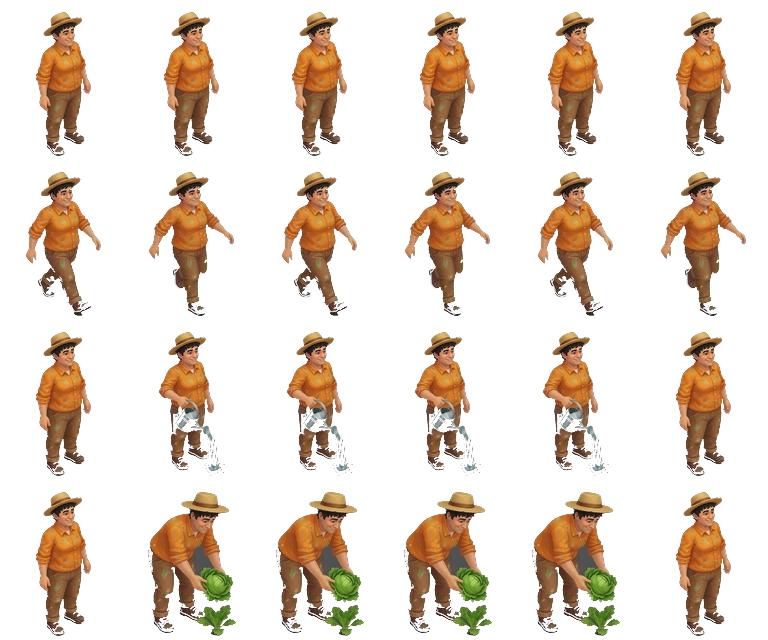
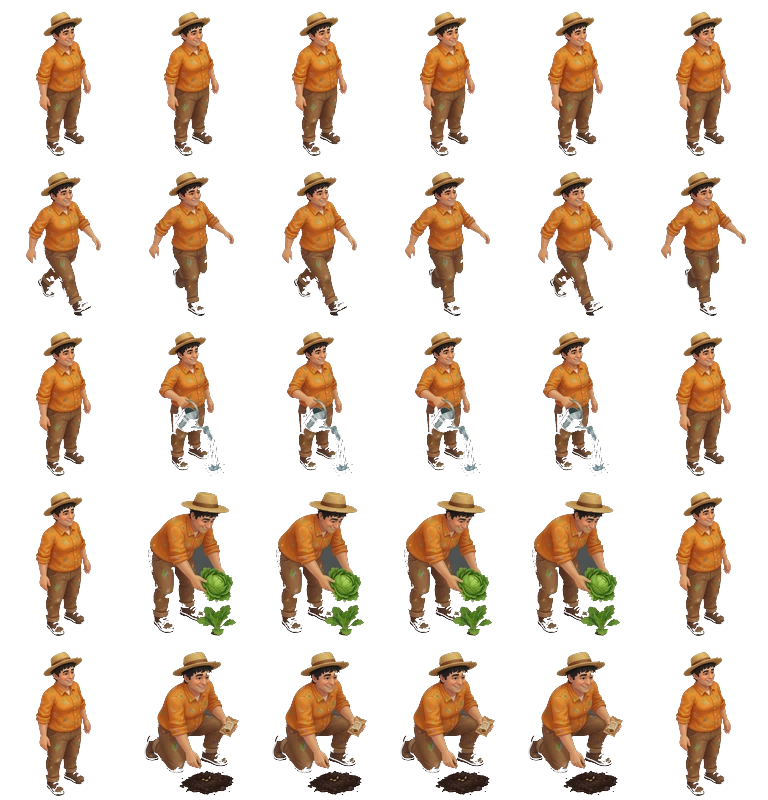
种菜也等人走到并做完下种动作

diff --git a/src/js/farmer.js b/src/js/farmer.js
@@ -14,8 +14,8 @@
     { id: 8, zh: '奶奶', en: 'Grandmother', child: false, shirt: '#d8c4a0', pants: '#6a5a48' },
     { id: 9, zh: '店员', en: 'Shop apron', child: false, shirt: '#2f7343', pants: '#3d4a6a' },
   ];
-  const SHEET_COLS = 6, SHEET_ROWS = 4;
-  const ANIMS = { idle: 0, walk: 1, water: 2, harvest: 3 };
+  const SHEET_COLS = 6, SHEET_ROWS = 5;
+  const ANIMS = { idle: 0, walk: 1, water: 2, harvest: 3, plant: 4 };
   const FPS = 8;
   const WALK_SPEED = 2.2;     // cells / second
   const IDLE_PAUSE = [2, 4];
@@ -84,14 +84,17 @@
     if (Farm.isoView && Farm.isoView.render) Farm.isoView.render();
   }
 
-  function enqueue(plotIdx, kind) {
-    if (!kind || (kind !== 'harvest' && kind !== 'water')) return false;
+  function enqueue(plotIdx, kind, cropId) {
+    if (!kind || (kind !== 'harvest' && kind !== 'water' && kind !== 'plant')) return false;
     if (Farm.state && Farm.state._visitLock) return false;
     const iso = Farm.isoView;
     if (!iso || plotIdx == null) return false;
     const plots = (Farm.state.data && Farm.state.data.plots) || [];
     const plot = plots[plotIdx];
-    if (!plot || !plot.unlocked || !plot.crop) return false;
+    if (!plot || !plot.unlocked) return false;
+    if (kind === 'plant') {
+      if (plot.crop || !cropId) return false;
+    } else if (!plot.crop) return false;
     if (kind === 'harvest' && !(Farm.crops && Farm.crops.isMature && Farm.crops.isMature(plot))) return false;
     if (kind === 'water' && Farm.tending && Farm.tending.canWater && !Farm.tending.canWater(plot)) return false;
     const cap = plots.filter((p) => p && p.unlocked).length || 12;
@@ -100,7 +103,7 @@
     for (let i = 0; i < A.queue.length; i++) {
       if (A.queue[i].plotIdx === plotIdx && A.queue[i].kind === kind) return false;
     }
-    A.queue.push({ plotIdx: plotIdx, kind: kind });
+    A.queue.push({ plotIdx: plotIdx, kind: kind, cropId: cropId || null });
     A.pause = 0;
     return true;
   }
@@ -236,6 +239,42 @@
     return n > 0;
   }
 
+  function enqueuePlantAll(cropId, startIdx) {
+    const iso = Farm.isoView;
+    if (!iso || !cropId || (Farm.state && Farm.state._visitLock)) return false;
+    const plots = (Farm.state.data && Farm.state.data.plots) || [];
+    const empty = [];
+    for (let i = 0; i < plots.length; i++) {
+      if (plots[i] && plots[i].unlocked && !plots[i].crop) empty.push(i);
+    }
+    if (!empty.length) return false;
+    const dist = (a, b) => {
+      const dx = iso._plotGX(a) - iso._plotGX(b);
+      const dy = iso._plotGY(a) - iso._plotGY(b);
+      return dx * dx + dy * dy;
+    };
+    const left = empty.slice();
+    const order = [];
+    let cur = (startIdx != null && left.indexOf(startIdx) >= 0) ? startIdx : left[0];
+    while (left.length) {
+      const at = left.indexOf(cur);
+      if (at >= 0) left.splice(at, 1);
+      order.push(cur);
+      if (!left.length) break;
+      let best = left[0], bd = Infinity;
+      for (let k = 0; k < left.length; k++) {
+        const d = dist(cur, left[k]);
+        if (d < bd) { bd = d; best = left[k]; }
+      }
+      cur = best;
+    }
+    let n = 0;
+    for (let i = 0; i < order.length; i++) {
+      if (enqueue(order[i], 'plant', cropId)) n++;
+    }
+    return n > 0;
+  }
+
   function finishJob(iso) {
     const job = A.job;
     A.job = null;
@@ -254,13 +293,31 @@
       }
     } else if (job.kind === 'water') {
       if (Farm.tending && Farm.tending.waterPlot) Farm.tending.waterPlot(job.plotIdx);
+    } else if (job.kind === 'plant' && job.cropId && Farm.shop && Farm.shop._plantOne) {
+      if ((Farm.state.data.seeds[job.cropId] || 0) <= 0) {
+        if (!(Farm.shop._buyOneForPlanting && Farm.shop._buyOneForPlanting(job.cropId))) {
+          A.queue = A.queue.filter((j) => !(j.kind === 'plant' && j.cropId === job.cropId));
+          if (Farm.ui && Farm.ui.toast) Farm.ui.toast(Farm.i18n ? Farm.i18n.t('toast_not_enough_coins') : '农场币不足');
+          return;
+        }
+      }
+      const r = Farm.shop._plantOne(job.plotIdx, job.cropId);
+      if (r && r.ok) {
+        if (Farm.farm && Farm.farm.renderGrid) Farm.farm.renderGrid();
+        if (Farm.harvestStatus) Farm.harvestStatus.render();
+        if (Farm.audio) Farm.audio.play('plant');
+        if (Farm.ui && Farm.ui.refreshHUD) Farm.ui.refreshHUD();
+      }
     }
   }
 
   function startJob(iso, job) {
     const plots = (Farm.state.data && Farm.state.data.plots) || [];
     const plot = plots[job.plotIdx];
-    if (!plot || !plot.crop) return false;
+    if (!plot) return false;
+    if (job.kind === 'plant') {
+      if (plot.crop || !job.cropId) return false;
+    } else if (!plot.crop) return false;
     if (job.kind === 'harvest' && !(Farm.crops && Farm.crops.isMature && Farm.crops.isMature(plot))) return false;
     if (job.kind === 'water' && Farm.tending && Farm.tending.canWater && !Farm.tending.canWater(plot)) return false;
     A.job = job;
@@ -317,7 +374,7 @@
       while (A.queue.length && !startJob(iso, A.queue.shift())) { /* skip stale */ }
     }
 
-    if (A.job && (A.job.kind === 'harvest' || A.job.kind === 'water')) {
+    if (A.job && (A.job.kind === 'harvest' || A.job.kind === 'water' || A.job.kind === 'plant')) {
       const p = plotPos(iso, A.job.plotIdx);
       if (A.anim === 'walk') {
         if (moveToward(dt, p.gx, p.gy)) {
@@ -326,7 +383,7 @@
           A.anim = A.job.kind;
           A.frameT = 0;
         }
-      } else if (A.anim === 'harvest' || A.anim === 'water') {
+      } else if (A.anim === 'harvest' || A.anim === 'water' || A.anim === 'plant') {
         if (A.frameT >= SHEET_COLS / FPS) finishJob(iso);
       }
       return;
@@ -354,7 +411,7 @@
 
   function frameIndex() {
     const n = SHEET_COLS;
-    if (A.anim === 'harvest' || A.anim === 'water') {
+    if (A.anim === 'harvest' || A.anim === 'water' || A.anim === 'plant') {
       return Math.min(n - 1, Math.floor(A.frameT * FPS));
     }
     return Math.floor(A.frameT * FPS) % n;
@@ -456,6 +513,7 @@
     enqueue: enqueue,
     enqueueHarvestAll: enqueueHarvestAll,
     enqueueWaterAll: enqueueWaterAll,
+    enqueuePlantAll: enqueuePlantAll,
     tick: tick,
     depthDraw: depthDraw,
     drawGuest: drawGuest,

diff --git a/src/js/shop.js b/src/js/shop.js
@@ -306,6 +306,12 @@
         const p = Farm.state.data.plots[pending];
         if (p && p.unlocked && !p.crop) {
           this._pendingPlotIdx = null;
+          if (Farm.isoView && Farm.isoView.active && Farm.isoView.active()
+              && Farm.farmer && Farm.farmer.enqueue && Farm.farmer.enqueue(pending, 'plant', cropId)) {
+            Farm.ui.hideModal();
+            this._stickyStart(cropId, 400);
+            return;
+          }
           const r = this._plantOne(pending, cropId);
           if (r.ok) {
             Farm.ui.hideModal();
@@ -433,6 +439,12 @@
         if (card.classList.contains('locked')) return;
         card.onclick = () => {
           const cropId = card.dataset.cropId;
+          if (Farm.isoView && Farm.isoView.active && Farm.isoView.active()
+              && Farm.farmer && Farm.farmer.enqueue && Farm.farmer.enqueue(plotIdx, 'plant', cropId)) {
+            Farm.ui.hideModal();
+            this._stickyStart(cropId, 400);
+            return;
+          }
           const result = this._plantOne(plotIdx, cropId);
           if (!result.ok) {
             Farm.ui.toast(Farm.i18n.t('toast_not_enough_seeds'));
@@ -504,6 +516,18 @@
       const lang = Farm.state.data.language;
       const def = Farm.crops.get(cropId);
       if (!def) return;
+      if (Farm.isoView && Farm.isoView.active && Farm.isoView.active()
+          && Farm.farmer && Farm.farmer.enqueuePlantAll) {
+        const n = Farm.farmer.enqueuePlantAll(cropId);
+        if (!n) {
+          Farm.ui.toast(lang === 'en' ? 'No empty plots to plant' : '没有可种的空地');
+          if (Farm.audio) Farm.audio.play('error');
+          return;
+        }
+        Farm.ui.hideModal();
+        this._stickyStart(cropId, 400);
+        return;
+      }
       const plots = Farm.state.data.plots || [];
       let planted = 0, spent = 0, stoppedNoCoins = false;
       for (let i = 0; i < plots.length; i++) {
@@ -584,6 +608,11 @@
           this.stickyEnd();
           return true;   // tap 已消费（给了失败反馈，不再弹选种器）
         }
+      }
+      if (Farm.isoView && Farm.isoView.active && Farm.isoView.active()
+          && Farm.farmer && Farm.farmer.enqueue && Farm.farmer.enqueue(plotIdx, 'plant', cropId)) {
+        this._stickyTouch();
+        return true;
       }
       const r = this._plantOne(plotIdx, cropId);
       if (!r.ok) { this.stickyEnd(); return false; }

diff --git a/service-worker.js b/service-worker.js
@@ -70,7 +70,7 @@ self.addEventListener('notificationclick', (event) => {
 
 // CACHE_VERSION 由 deploy.sh 在每次部署时自动注入时间戳（ef-YYMMDDHHMM），
 // 不再手动 +1 —— 忘 bump 会让全体 PWA 用户静默停在旧版（iOS 要删 App 才能救）。
-const CACHE_VERSION = 'ef-2608201439';
+const CACHE_VERSION = 'ef-2608201450';
 const CACHE = 'eastern-farm-' + CACHE_VERSION;
 // Precache the FULL app shell — HTML + CSS + every JS module + data JSON — so a SW
 // update (which clears the old cache) followed by a flaky mobile network can never leave

diff --git a/src/index.html b/src/index.html
@@ -6,7 +6,7 @@
 <meta name="theme-color" content="#fdf8ee">
 <!-- 部署构建号（deploy.sh 每次注入 CACHE_VERSION 时间戳）。SW 新鲜度守卫据此
      判断本页是否已过期（见页尾脚本）。ef-dev = 未部署的本地版本。 -->
-<meta name="ef-build" content="ef-2608201439">
+<meta name="ef-build" content="ef-2608201450">
 
 <!-- ==================== PWA (add to home screen) ==================== -->
 <link rel="manifest" href="manifest.webmanifest">

diff --git a/src/worldcup.html b/src/worldcup.html
@@ -3,7 +3,7 @@
 <head>
 <meta charset="UTF-8">
 <meta name="viewport" content="width=device-width, initial-scale=1.0, viewport-fit=cover">
-<meta name="ef-build" content="ef-2608201439">
+<meta name="ef-build" content="ef-2608201450">
 <meta name="theme-color" content="#3a7d2c">
 
 <!-- ==================== PWA (add to home screen) ==================== -->

diff --git a/scripts/_sheet_farmers.py b/scripts/_sheet_farmers.py
@@ -11,7 +11,7 @@ SESS = os.path.join(
 OUT = os.path.join(os.path.dirname(os.path.dirname(os.path.abspath(__file__))),
                    'src', 'assets', 'images', 'farmers')
 CELL_W, CELL_H = 128, 160
-COLS, ROWS = 6, 4
+COLS, ROWS = 6, 5
 
 # look id -> session jpg numbers
 IDLE = {1: 222, 2: 206, 3: 220, 4: 209, 5: 217, 6: 218, 7: 223, 8: 229, 9: 221}
@@ -19,6 +19,7 @@ WALK_A = {1: 225, 2: 214, 3: 224, 4: 226, 5: 228, 6: 230, 7: 227, 8: 229, 9: 231
 WALK_B = {1: 235, 2: 216, 3: 233, 4: 234, 5: 236, 6: 238, 7: 232, 8: 237, 9: 239}
 WATER = {1: 243, 2: 210, 3: 242, 4: 240, 5: 246, 6: 245, 7: 241, 8: 247, 9: 244}
 HARVEST = {1: 250, 2: 215, 3: 251, 4: 248, 5: 255, 6: 253, 7: 249, 8: 254, 9: 252}
+PLANT = {1: 257, 2: 258, 3: 259, 4: 260, 5: 262, 6: 264, 7: 261, 8: 263, 9: 265}
 
 
 def is_bg(r, g, b, br, bg, bb, tol):
@@ -121,10 +122,12 @@ def main():
         b = load_cell(WALK_B[look])
         w = load_cell(WATER[look])
         h = load_cell(HARVEST[look])
+        p = load_cell(PLANT[look])
         walk = [a, b, a, b, a, b]
         wat = [idle, w, w, w, w, idle]
         har = [idle, h, h, h, h, idle]
-        pack(look, [[idle], walk, wat, har])
+        plt = [idle, p, p, p, p, idle]
+        pack(look, [[idle], walk, wat, har, plt])
     print('done')
 
 
